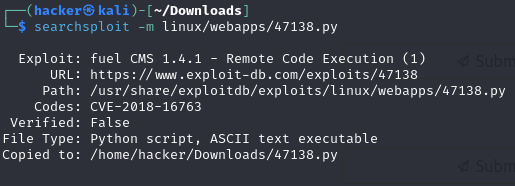
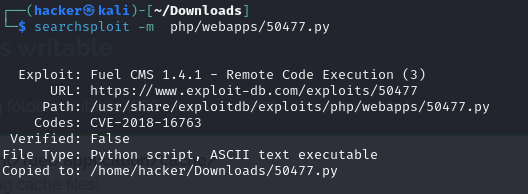
sws

Changed region(s): [[0.0, 0.2688, 0.9942, 0.914], [0.0, 0.0269, 0.6524, 0.1882]]

diff --git a/_posts/2024-05-25-SWS101_CTFchallanges.md b/_posts/2024-05-25-SWS101_CTFchallanges.md
@@ -8,3 +8,54 @@ tags: SWS 101
 
 ![alt text](../Image/CTF/ignite/ignite.jpeg)
 
+**HELLO guys!**
+This is a ctf journal on Ignite and i will be guiding you guys how to do this machine step by steps.
+
+### Exploring the website
+Exploring the website I have got this a Fuel CMS page with version 1.4.  I search for exploit code that I could use to gain access to the machine.
+
+![text](../Image/CTF/ignite/1.png) 
+
+I used the **searchsploit** module to find the exploit code for Fuel CMS 1.4. It searches the Exploit Database — a comprehensive database of exploits, shellcode, and security vulnerabilities.
+
+![text](../Image/CTF/ignite/2.png) 
+
+Then I downloaded the first python script by running the following command:
+
+    searchsploit -m php/webapps/50477.py
+
+![text](../Image/CTF/ignite/3.png) 
+
+### looking what is inside the python file 
+
+![text](../Image/CTF/ignite/4.png) 
+
+Changing the Ip address in the python script I ran the python file where it opens a command prompt.
+
+![alt text](../Image/CTF/ignite/connecting_cmd.png) 
+
+### Reverse Shell 
+Then I will do a reverse shell by running a code that I copied from a cheetsheet that is pentest monkey.
+
+![alt text](../Image/CTF/ignite/reverseshell.png)
+
+From terminal I did netcat on port 4444 and it was successful now I can access the machine from my terminal.
+
+![text](../Image/CTF/ignite/nc.png) 
+
+### Rootflag
+#### rootflag for user
+
+![text](../Image/CTF/ignite/root1.png)
+
+![text](../Image/CTF/ignite/root2.png) 
+ 
+#### Rootflag for root
+
+![text](../Image/CTF/ignite/1stflag1.png)
+
+![text](../Image/CTF/ignite/rootflag.png)
+
+
+**Thank you! 😊**
+
